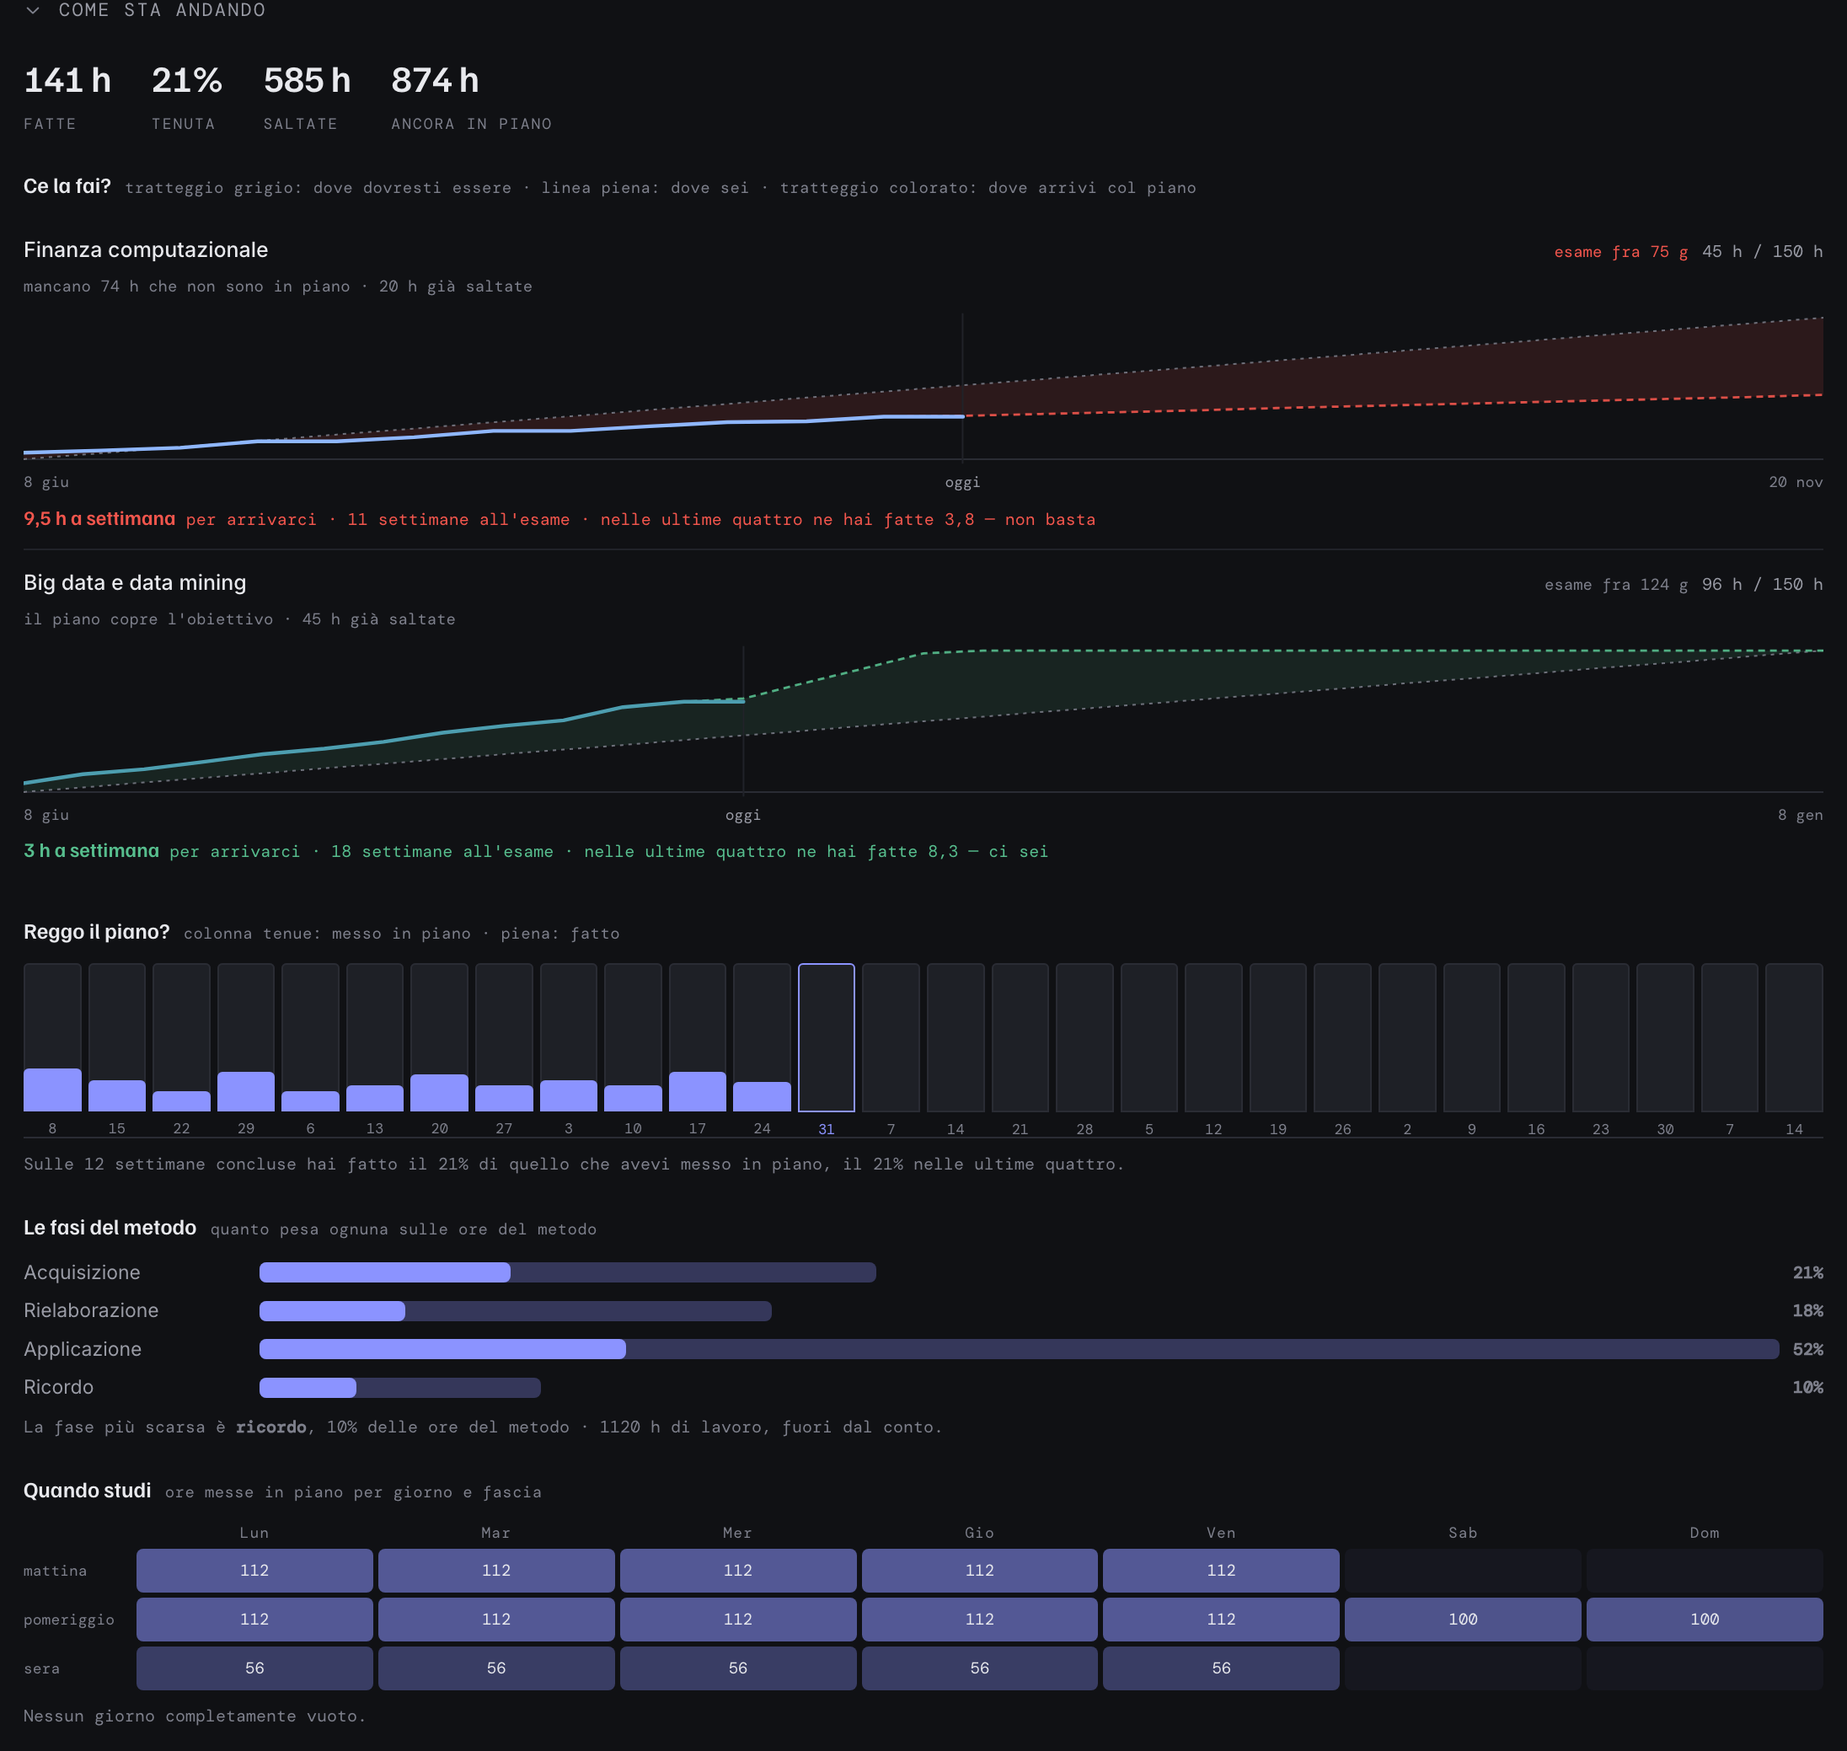
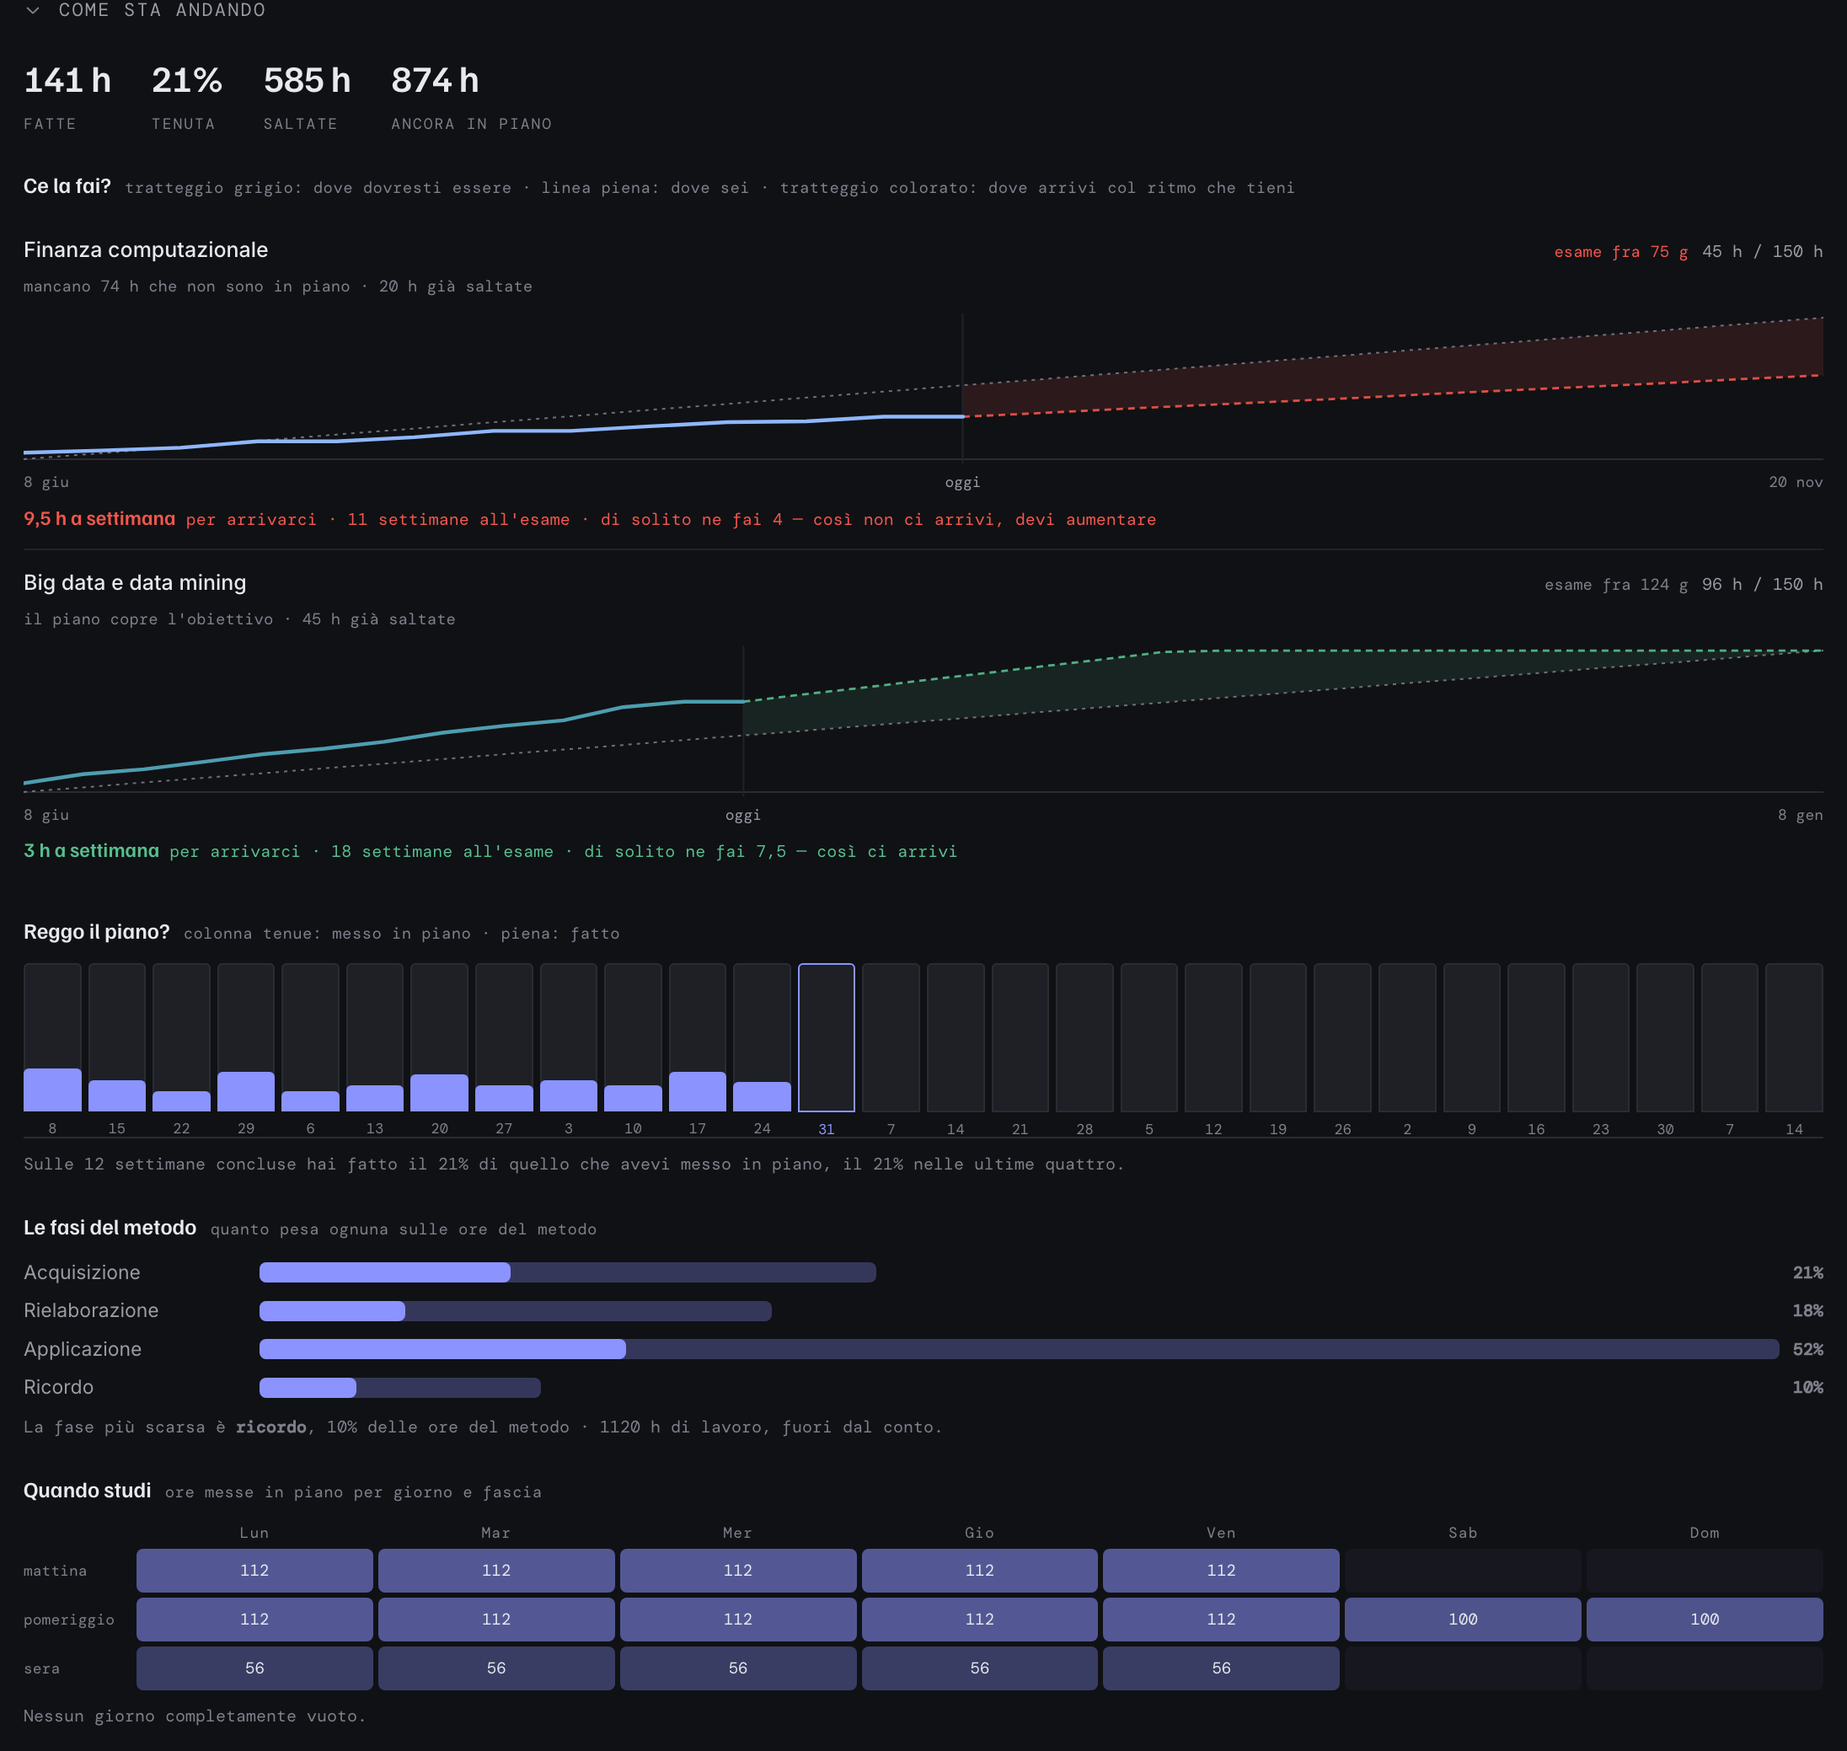
Il tratteggio proietta il ritmo che tieni, non il piano che hai scritto
Il piano lo sai già, l'hai scritto tu; quello che non sai è se lo rispetterai.
Ora il tratteggio parte da oggi e sale con la mediana delle ore che hai fatto
davvero nelle settimane passate — mediana e non media, perché una settimana da
otto ore e cinque da zero fanno una media da 1,3 che non è successa mai. Le
settimane a zero contano: fanno parte del ritmo.

Così il verde e il rosso rispondono alla domanda vera: continuando così ci
arrivo, o devo per forza aumentare? E la riga sotto lo scrive: "6,1 h a
settimana per arrivarci · di solito ne fai 4 — così non ci arrivi, devi
aumentare".

Il diradamento della prima riga ora fa due passate: se togliendo la parola
dell'attività la riga va ancora a capo — succede con un nome lungo su una
colonna da 118 pixel — se ne va anche l'icona e resta il motivo, che
l'attività la dice comunque. Era il difetto che teneva rossi due controlli:
il motivo occupava il 33% dell'altezza invece del 59%.

Tre test riscritti sulla semantica nuova, uno spostato a provare il
diradamento da solo invece che attraverso il disegno di una settimana intera.

136 controlli, verdi a dieci misure di schermo. Immagini in bozze/ rifatte.

Changed region(s): [[0.6204, 0.2156, 0.9927, 0.2464], [0.2482, 0.2156, 0.5274, 0.2464]]

diff --git a/index.html b/index.html
@@ -3584,7 +3584,7 @@ function semSummary(){
     (a.gg==null)-(b.gg==null)||(a.gg-b.gg)||(b.vuoto-a.vuoto));
   if(righe.length){
     h+='<div class="graf"><h4>Ce la fai?<u>tratteggio grigio: dove dovresti essere · '+
-      'linea piena: dove sei · tratteggio colorato: dove arrivi col piano'+
+      'linea piena: dove sei · tratteggio colorato: dove arrivi col ritmo che tieni'+
       (seguite().length?" · solo quelle che segui":"")+"</u></h4>";
     righe.forEach(r=>{
       const verdetto=r.vuoto>0
@@ -3686,6 +3686,25 @@ function semSummary(){
    - il tratteggio: dove arrivi se fai tutto quello che hai già messo in piano.
    Se il tratteggio finisce sotto la retta, il piano non basta — e si vede
    senza leggere un numero. */
+/* La mediana delle ore fatte nelle settimane già passate. Mediana e non media
+   perché una settimana da otto ore e cinque da zero fanno una media da 1,3 che
+   non è successa mai: la mediana dice quello che fai di solito. */
+function mediana(v){
+  if(!v.length)return 0;
+  const a=v.slice().sort((x,y)=>x-y),m=a.length>>1;
+  return a.length%2?a[m]:(a[m-1]+a[m])/2;
+}
+function ritmoStorico(r){
+  const oggiLun=iso(monday(new Date())),sett=Object.keys(r.sett).sort();
+  const passate=sett.filter(k=>k<oggiLun);
+  if(!passate.length)return 0;
+  /* dalla prima settimana con qualcosa a oggi, comprese quelle a zero: una
+     settimana in cui non hai fatto niente fa parte del tuo ritmo */
+  const dal=parse(passate[0]),out=[];
+  for(let d=new Date(dal);iso(d)<oggiLun;d=addDays(d,7))
+    out.push(((r.sett[iso(d)]||{}).d||0)/PERQ);
+  return mediana(out);
+}
 function corsa(r){
   if(!r.tgt)return "";
   const sett=Object.keys(r.sett).sort();
@@ -3704,16 +3723,25 @@ function corsa(r){
   const n=Math.max(1,Math.round((fine-inizio)/604800000));
   if(n>200)return "";
   const W=100,H=34,px=i=>i/n*W,py=v=>H-Math.min(1,v/r.tgt)*(H-3)-1.5;
-  let cum=0,pia=0,reali=[],piano=[],meta=[],iOggi=0;
+  const passo=ritmoStorico(r);
+  let cum=0,reali=[],piano=[],meta=[],iOggi=0,fatteOra=0;
   for(let i=0;i<=n;i++){
     const k=iso(addDays(inizio,i*7)),c=r.sett[k]||{d:0,p:0};
-    cum+=c.d/PERQ;pia+=(c.d+c.p)/PERQ;
+    cum+=c.d/PERQ;
     meta.push([px(i),py(conData?r.tgt*i/n:r.tgt)]);
-    if(parse(k)<=oggiLun){reali.push([px(i),py(cum)]);iOggi=i;}
+    if(parse(k)<=oggiLun){reali.push([px(i),py(cum)]);iOggi=i;fatteOra=cum;}
+  }
+  /* Il tratteggio parte da oggi e sale col ritmo che tieni di solito: dice se
+     ci arrivi continuando così, che è la domanda vera. Il piano lo sai già,
+     l'hai scritto tu; quello che non sai è se lo rispetterai. */
+  let pia=fatteOra;
+  for(let i=iOggi;i<=n;i++){
+    pia=fatteOra+passo*(i-iOggi);
     piano.push([px(i),py(pia)]);
   }
   const via=a=>a.map(p=>p[0].toFixed(1)+","+p[1].toFixed(1)).join(" ");
   const ce=pia>=r.tgt-0.01;
+  r.passo=passo;r.arrivo=pia;
   /* Il divario si riempie invece di essere disegnato con due fili: a centocinquanta
      ore di obiettivo e quaranta fatte le linee starebbero appiccicate al fondo e
      sembrerebbe che non ci siano dati, non che sei indietro. */
@@ -3721,7 +3749,8 @@ function corsa(r){
      mentre il tempo passa". Senza data la meta è una soglia orizzontale, e
      riempire tutto quello che manca dipinge di rosso mezzo riquadro senza
      aggiungere niente a quello che dice già la distanza fra le due righe. */
-  const zona=conData?via(meta)+" "+via(piano.slice().reverse()):"";
+  /* il cuneo si chiude sulla parte di meta che il tratteggio attraversa */
+  const zona=conData?via(meta.slice(iOggi))+" "+via(piano.slice().reverse()):"";
   return '<svg class="gsvg" viewBox="0 0 '+W+" "+H+'" preserveAspectRatio="none" '+
       'role="img" aria-label="andamento verso l\u2019esame">'+
     (zona?'<polygon class="gzona'+(ce?" ok":"")+'" points="'+zona+'"/>':"")+
@@ -3742,22 +3771,21 @@ function corsa(r){
       "<span>"+(conData?fmt(parse(r.o.date)):"fine del piano")+"</span></div>";
 }
 function ritmoRiga(r){
-  const num0=v=>(v%1?v.toFixed(1).replace(".",","):String(v));
+  const num=v=>{v=Math.round(v*10)/10;return v%1?v.toFixed(1).replace(".",","):String(v);};
+  const passo=r.passo||0;
   if(r.gg==null||r.gg<0){
-    const arrivo=r.f+r.fut;
-    return '<div class="gritmo'+(arrivo>=r.tgt-0.01?" ok":"")+'"><b>'+
-      num0(Math.round(arrivo*10)/10)+" h</b> è dove arrivi col piano che hai, su "+
-      r.tgt+" h · metti la data dell\u2019esame per sapere se basta</div>";
+    return '<div class="gritmo'+((r.arrivo||0)>=r.tgt-0.01?" ok":"")+'"><b>'+
+      num(passo)+" h a settimana</b> è il tuo ritmo di solito · "+
+      "metti la data dell\u2019esame per sapere se basta</div>";
   }
   const manca=Math.max(0,r.tgt-r.f);
   if(!manca)return '<div class="gritmo ok">obiettivo raggiunto</div>';
   const sett=Math.max(1,Math.ceil(r.gg/7)),serve=manca/sett;
-  const ce=r.ritmo>=serve;
-  const num=v=>(v%1?v.toFixed(1).replace(".",","):String(v));
-  return '<div class="gritmo'+(ce?" ok":"")+'"><b>'+num(Math.round(serve*10)/10)+
-    " h a settimana</b> per arrivarci · "+sett+
-    (sett===1?" settimana":" settimane")+" all'esame · nelle ultime quattro ne hai fatte "+
-    num(Math.round(r.ritmo*10)/10)+(ce?" — ci sei":" — non basta")+"</div>";
+  const ce=passo>=serve;
+  return '<div class="gritmo'+(ce?" ok":"")+'">'+
+    "<b>"+num(serve)+" h a settimana</b> per arrivarci · "+sett+
+    (sett===1?" settimana":" settimane")+" all'esame · di solito ne fai "+
+    num(passo)+(ce?" — così ci arrivi":" — così non ci arrivi, devi aumentare")+"</div>";
 }
 
 /* ---------- giorno intero: copia, incolla, svuota ---------- */
@@ -4144,13 +4172,19 @@ function clearRun(dateIso,start,len,lane){
    lungo il nome e da quanto è larga la colonna. */
 function sfoltisci(root){
   (root||document).querySelectorAll(".blk em .l1").forEach(l1=>{
-    const par=l1.querySelector("s > i"),nome=l1.querySelector("b");
-    if(!par||!nome)return;
-    /* una riga è alta quanto il nome della materia: se la prima riga è alta di
-       più, vuol dire che l'attività è andata a capo. Misurare l'interlinea
-       calcolata non funziona, perché le due righe hanno corpi diversi. */
+    const nome=l1.querySelector("b");if(!nome)return;
+    /* una riga è alta quanto il nome della materia: se la prima riga è più
+       alta, l'attività è andata a capo. L'interlinea calcolata non serve,
+       perché le due righe hanno corpi diversi. */
     const riga=nome.getBoundingClientRect().height||14;
-    if(l1.getBoundingClientRect().height>riga*1.5)par.remove();
+    const doppia=()=>l1.getBoundingClientRect().height>riga*1.5;
+    if(!doppia())return;
+    const par=l1.querySelector("s > i");
+    if(par)par.remove();
+    /* con un nome lungo e una colonna stretta non basta togliere la parola:
+       anche il nome più l'icona vanno a capo. Allora se ne va anche l'icona e
+       resta il motivo, che l'attività la dice comunque. */
+    if(doppia()){const s2=l1.querySelector("s");if(s2)s2.remove();}
   });
 }
 

diff --git a/test/suite.js b/test/suite.js
@@ -751,12 +751,12 @@
     /* 150 h da fare in 10 settimane = 15 h a settimana */
     return riga.textContent.indexOf("15 h a settimana")>=0?true:
       "dice: "+riga.textContent;});
-  t("senza data d'esame dice comunque dove arrivi col piano",function(){
+  t("senza data d'esame dice comunque il ritmo che tieni",function(){
     pulisci();apri();
     placeRun(G[0],H0,{i:items()[0].id,a:"LET",len:4},0);
     state.semOpen=true;semSummary();
     var r=document.querySelector("#semBody .gritmo");
-    return (r&&r.textContent.indexOf("dove arrivi col piano")>=0)?true:
+    return (r&&r.textContent.indexOf("il tuo ritmo")>=0)?true:
       "dice: "+(r?r.textContent:"niente");});
   t("avvisa una volta sola, e solo se il blocco è vicino",function(){
     /* La prossima mezz'ora può essere fra un minuto o fra ventinove, secondo
@@ -964,21 +964,22 @@
     if(!senza||!con)return "manca il disegno: senza="+senza+" con="+con;
     return (Math.abs(senza[0]-senza[1])<0.5&&con[0]-con[1]>5)?true:
       "senza data "+senza.join("→")+" (attesa piatta), con data "+con.join("→")+" (attesa in salita)";});
-  t("un piano che basta disegna il verde, uno che non basta il rosso",function(){
+  t("il tratteggio è verde se il ritmo che tieni basta, rosso se no",function(){
     pulisci();apri();
-    var o=items()[0],tgt=targetH(o.cfu)*PERQ;
-    state.over[o.id]={n:o.name,c:6,d:iso(addDays(new Date(),56))};
-    /* poche ore: non basta */
-    placeRun(G[0],H0,{i:o.id,a:"LET",len:4},0);
+    var o=items()[0],sett=8;
+    state.over[o.id]={n:o.name,c:6,d:iso(addDays(new Date(),7*sett))};
+    /* otto settimane passate con poche ore fatte: la mediana non basta */
+    for(var w=1;w<=8;w++)
+      placeRun(iso(addDays(monday(new Date()),-7*w)),HOURS[2],
+        {i:o.id,a:"LET",len:2,done:1},0);
     state.semOpen=true;semSummary();
     var rosso=!!document.querySelector("#semBody .gpiano:not(.ok)");
-    /* ora ne metto in piano quante ne servono. Parto da zero: il blocco di
-       prima sta nel passato e non spuntato, quindi è tempo perso, non piano. */
-    var messe=0;
-    for(var g=1;g<56&&messe<tgt;g++){
-      var day=iso(addDays(new Date(),g));
-      for(var j=0;j<HOURS.length-1&&messe<tgt;j+=2){
-        placeRun(day,HOURS[j],{i:o.id,a:"LET",len:2},0);messe+=2;}}
+    /* ora riempio quelle stesse settimane: la mediana sale sopra il richiesto */
+    for(var w2=1;w2<=8;w2++){
+      var lun=monday(addDays(new Date(),-7*w2));
+      for(var d=0;d<7;d++)for(var j=2;j<26;j+=2)
+        placeRun(iso(addDays(lun,d)),HOURS[j],{i:o.id,a:"LET",len:2,done:1},0);
+    }
     semSummary();
     var verde=!!document.querySelector("#semBody .gpiano.ok");
     state.over={};
@@ -1166,9 +1167,9 @@
   t("a mezz'ora la fascia del motivo è larga almeno trenta pixel",function(){
     pulisci();apri();
     var lungo=items().filter(function(x){return /dichiar/i.test(x.name||"");})[0]||it[2];
+    state.span=7;state.from=0;state.to=6;applySpan();
     var G7=[];document.querySelectorAll("td.c").forEach(function(x){
       if(G7.indexOf(x.dataset.date)<0)G7.push(x.dataset.date);});
-    state.span=7;state.from=0;state.to=6;applySpan();
     G7.slice(0,5).forEach(function(d){
       placeRun(d,HOURS[6],{i:lungo.id,a:"SCH",len:1},0);});
     render();
@@ -1183,9 +1184,9 @@
   t("a un'ora la fascia del motivo è alta almeno ventidue pixel",function(){
     pulisci();apri();
     var lungo=items().filter(function(x){return /dichiar/i.test(x.name||"");})[0]||it[2];
+    state.span=7;state.from=0;state.to=6;applySpan();
     var G7=[];document.querySelectorAll("td.c").forEach(function(x){
       if(G7.indexOf(x.dataset.date)<0)G7.push(x.dataset.date);});
-    state.span=7;state.from=0;state.to=6;applySpan();
     G7.slice(0,5).forEach(function(d){
       placeRun(d,HOURS[6],{i:lungo.id,a:"SCH",len:2},0);});
     render();
@@ -1194,8 +1195,32 @@
       return Math.round(tr.getBoundingClientRect().height/b.getBoundingClientRect().height*100);});
     if(!q.length)return "nessun blocco da un'ora";
     var min=Math.min.apply(null,q);
+    /* a riga bassa il blocco è una striscia e il motivo sta di fianco: lì la
+       proporzione in altezza non vuol dire niente */
+    if(ROW*2-2<30)return true;
     return min>=35?true:"il motivo occupa solo il "+min+"% dell'altezza (prima era il 30%)";});
-  t("quando la prima riga va a capo, la parola dell'attività sparisce",function(){
+  t("sfoltire toglie la parola solo quando la riga è andata a capo",function(){
+    /* provata da sola: costruisco due prime righe, una che sta su una riga e
+       una che va a capo, e guardo cosa succede */
+    var box=document.createElement("div");
+    box.style.cssText="position:absolute;left:-9999px;top:0;width:120px";
+    box.innerHTML='<div class="blk" style="position:static;width:120px">'+
+      '<em><span class="l1"><b>PROG. DICHIAR.</b><s><i>Laboratorio</i></s></span>'+
+      '<span class="tr"></span></em></div>'+
+      '<div class="blk" style="position:static;width:400px">'+
+      '<em><span class="l1"><b>BIG DATA</b><s><i>Lezione</i></s></span>'+
+      '<span class="tr"></span></em></div>';
+    document.body.appendChild(box);
+    var a=box.children[0].querySelector(".l1"),b=box.children[1].querySelector(".l1");
+    var eraDoppia=a.getBoundingClientRect().height>
+      a.querySelector("b").getBoundingClientRect().height*1.5;
+    sfoltisci(box);
+    var tolta=!a.querySelector("s > i"), tenuta=!!b.querySelector("s > i");
+    box.remove();
+    if(!eraDoppia)return true;      /* qui non va a capo: niente da sfoltire */
+    return (tolta&&tenuta)?true:
+      "stretta: parola tolta "+tolta+" · larga: parola tenuta "+tenuta;});
+  t("quando la prima riga va a capo nella griglia, la parola sparisce",function(){
     pulisci();apri();
     var lungo=items().filter(function(x){return /dichiar/i.test(x.name||"");})[0]||it[2];
     var G7=[];document.querySelectorAll("td.c").forEach(function(x){
@@ -1204,9 +1229,7 @@
     placeRun(G7[0],HOURS[6],{i:lungo.id,a:"LEZ",len:2},0);
     render();
     var l1=document.querySelector(".blk em .l1");
-    /* a riga bassa un blocco da un'ora è una striscia e non ha la prima riga:
-       lì questa regola non si applica */
-    if(!l1)return ROW*2-2<30?true:"nessun blocco con la prima riga";
+    if(!l1)return true;   /* niente prima riga: o è una striscia o il blocco non c'è */
     var b=l1.querySelector("b");
     var doppia=l1.getBoundingClientRect().height>b.getBoundingClientRect().height*1.5;
     return !doppia?true:"la prima riga è ancora doppia";});
